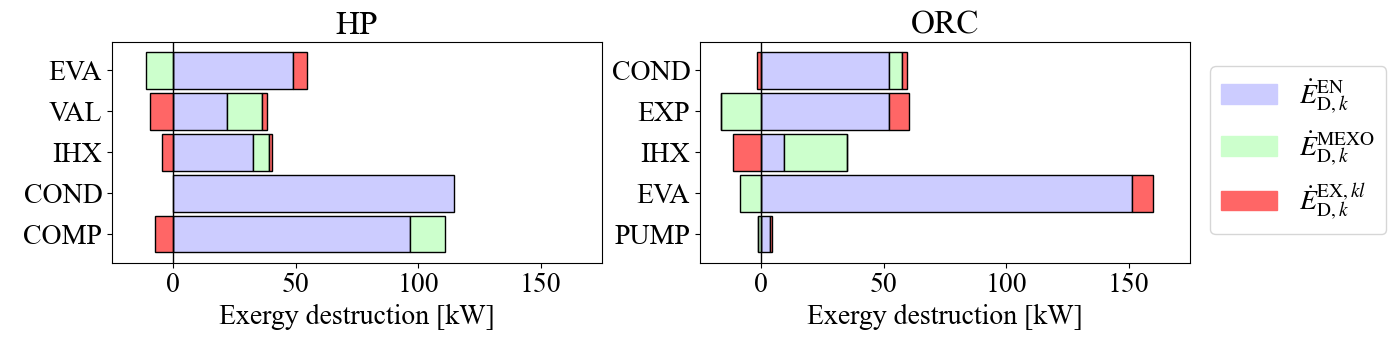
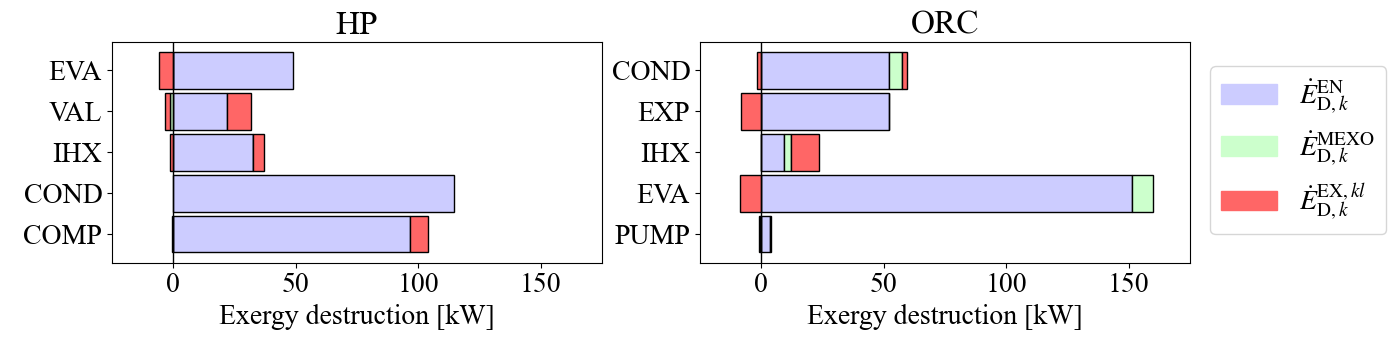
Fix: Error in calculation of MEXO corrected

diff --git a/orc_simult.py b/orc_simult.py
@@ -879,7 +879,7 @@ def main_multiprocess():
                 df_adex_analysis.loc[(k, l), 'm EX [kg/s]'] = df_real.loc[31, 'm [kg/s]'] - df_k_l.loc[31, 'm [kg/s]']
                 df_adex_analysis.loc[(k, l), 'ED kl [kW]'] = df_ed.loc[(k_l, k), 'ED [kW]']
                 df_adex_analysis.loc[(k, l), 'ED kl [kW]'] = df_ed.loc[(k_l, k), 'ED [kW]']
-                df_adex_analysis.loc[(k, l), 'ED EX l [kW]'] = df_adex_analysis.loc[(k, ''), 'ED EN [kW]'] - df_adex_analysis.loc[(k, l), 'ED kl [kW]']
+                df_adex_analysis.loc[(k, l), 'ED EX l [kW]'] = df_adex_analysis.loc[(k, l), 'ED kl [kW]'] - df_adex_analysis.loc[(k, ''), 'ED EN [kW]']
                 sum_ed_ex_l += df_adex_analysis.loc[(k, l), 'ED EX l [kW]']
         df_adex_analysis.loc[(k, ''), 'ED MEXO [kW]'] = df_adex_analysis.loc[(k, ''), 'ED EX [kW]'] - sum_ed_ex_l
     df_adex_analysis.round(2).to_csv('outputs/adex_orc/orc_adex_analysis.csv')

diff --git a/hp_simult.py b/hp_simult.py
@@ -853,7 +853,7 @@ def main_multiprocess():
                 df_adex_analysis.loc[(k, l), 'm EX [kg/s]'] = df_real.loc[11, 'm [kg/s]'] - df_k_l.loc[11, 'm [kg/s]']
                 df_adex_analysis.loc[(k, l), 'ED kl [kW]'] = df_ed.loc[(k_l, k), 'ED [kW]']
                 df_adex_analysis.loc[(k, l), 'ED kl [kW]'] = df_ed.loc[(k_l, k), 'ED [kW]']
-                df_adex_analysis.loc[(k, l), 'ED EX l [kW]'] = df_adex_analysis.loc[(k, ''), 'ED EN [kW]'] - df_adex_analysis.loc[(k, l), 'ED kl [kW]']
+                df_adex_analysis.loc[(k, l), 'ED EX l [kW]'] = df_adex_analysis.loc[(k, l), 'ED kl [kW]'] - df_adex_analysis.loc[(k, ''), 'ED EN [kW]']
                 sum_ed_ex_l += df_adex_analysis.loc[(k, l), 'ED EX l [kW]']
         df_adex_analysis.loc[(k, ''), 'ED MEXO [kW]'] = df_adex_analysis.loc[(k, ''), 'ED EX [kW]'] - sum_ed_ex_l
     df_adex_analysis.round(2).to_csv('outputs/adex_hp/hp_adex_analysis.csv')
